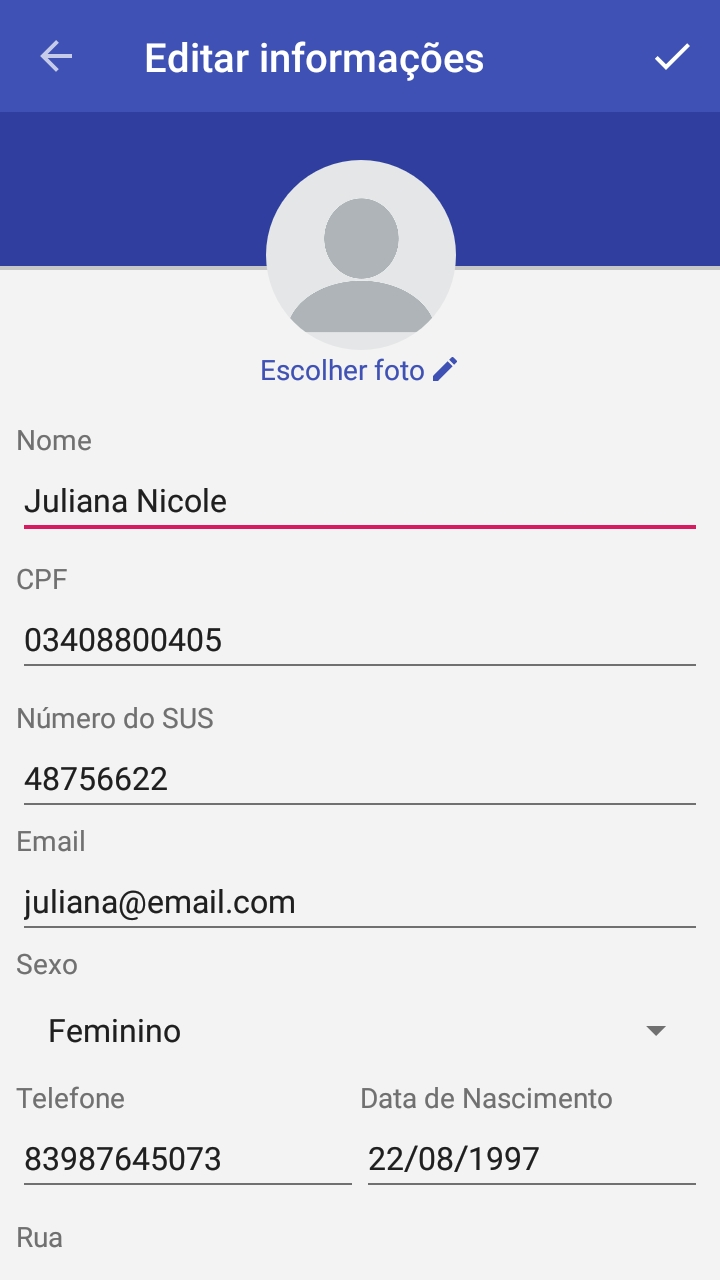
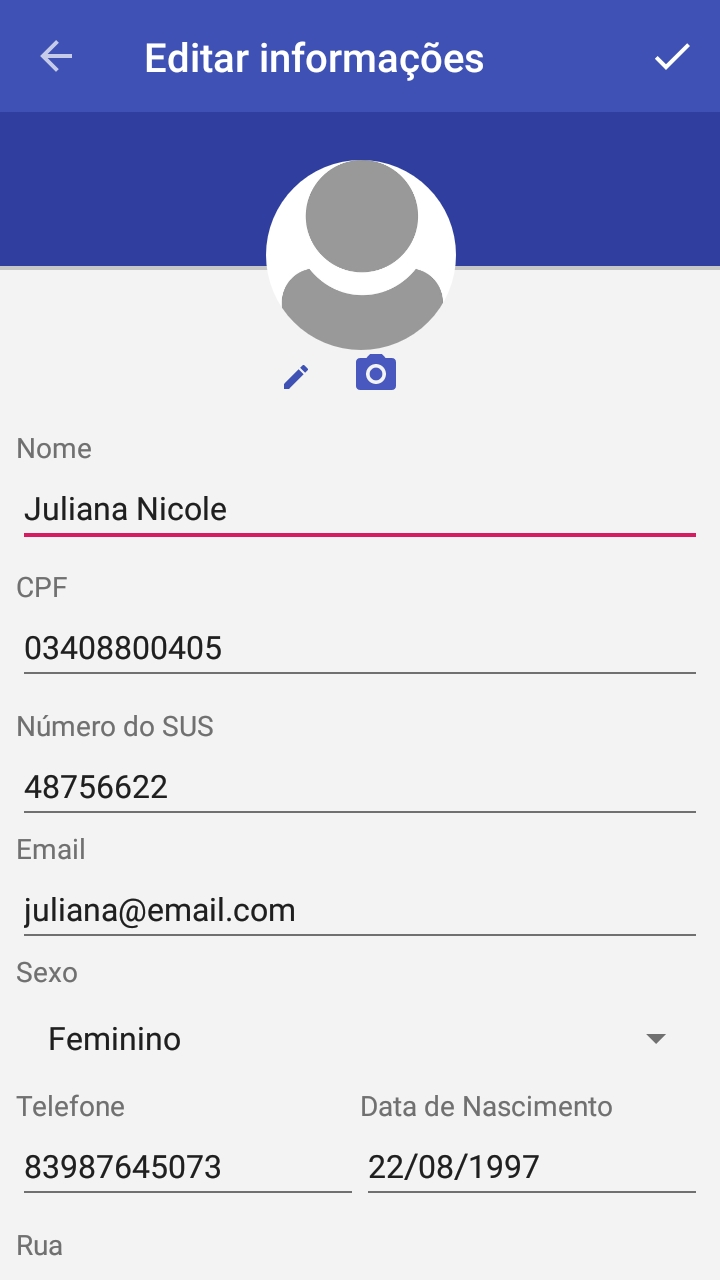
recurso de camera

diff --git a/app/src/main/java/com/ifpb/suaconsulta/activity/EditarInformacoesActivity.java b/app/src/main/java/com/ifpb/suaconsulta/activity/EditarInformacoesActivity.java
@@ -1,13 +1,17 @@
 package com.ifpb.suaconsulta.activity;
 
+import android.Manifest;
+import android.content.DialogInterface;
 import android.content.Intent;
 import android.content.SharedPreferences;
+import android.content.pm.PackageManager;
 import android.graphics.Bitmap;
 import android.net.Uri;
 import android.os.Bundle;
 import android.provider.MediaStore;
 import android.support.annotation.NonNull;
 import android.support.annotation.Nullable;
+import android.support.v7.app.AlertDialog;
 import android.support.v7.app.AppCompatActivity;
 import android.support.v7.widget.Toolbar;
 import android.util.Log;
@@ -39,6 +43,7 @@ import com.ifpb.suaconsulta.database.ConfiguracaoFirebase;
 import com.ifpb.suaconsulta.database.UsuarioFirebase;
 import com.ifpb.suaconsulta.helper.PreferenciasDoUsuario;
 import com.ifpb.suaconsulta.model.Usuario;
+import com.ifpb.suaconsulta.helper.Permissao;
 
 import java.io.ByteArrayOutputStream;
 
@@ -46,13 +51,19 @@ import de.hdodenhof.circleimageview.CircleImageView;
 
 public class EditarInformacoesActivity extends AppCompatActivity {
 
+    private String[] permissoesNecessarias = new String[]{
+            Manifest.permission.READ_EXTERNAL_STORAGE,
+            Manifest.permission.CAMERA
+    };
+
     private final String ARQUIVO_PREFERENCIAS = "arquivoPreferencias";
-    FirebaseAuth auth;
+    private FirebaseAuth auth;
 
     private static final int SELECAO_GALERIA = 200;
+    private static final int SELECAO_CAMERA = 300;
     private SharedPreferences preferences;
     private EditText editNome, editCpf, editNumSus, editTelefone, editNascimento, editRua, editBairro, editEmail;
-    private TextView editarFoto;
+    private TextView editarFoto, editarFotoCamera;
     private CircleImageView imageEditarPerfil;
     private Spinner spinner;
     private ProgressBar progressBar;
@@ -71,6 +82,9 @@ public class EditarInformacoesActivity extends AppCompatActivity {
         getWindow().setFlags(WindowManager.LayoutParams.FLAG_FULLSCREEN, WindowManager.LayoutParams.FLAG_FULLSCREEN);
 
         setContentView(R.layout.activity_editar_informacoes);
+
+        //valida
+        Permissao.validarPermissoes(permissoesNecessarias, this, 1);
 
         Toolbar toolbar = findViewById(R.id.toolbarEditarInfo);
         toolbar.setTitle("Editar informações");
@@ -92,6 +106,16 @@ public class EditarInformacoesActivity extends AppCompatActivity {
                 Intent intent = new Intent(Intent.ACTION_PICK, MediaStore.Images.Media.EXTERNAL_CONTENT_URI);
                 if(intent.resolveActivity(getPackageManager()) != null){
                     startActivityForResult(intent, SELECAO_GALERIA);
+                }
+            }
+        });
+
+        editarFotoCamera.setOnClickListener(new View.OnClickListener() {
+            @Override
+            public void onClick(View v) {
+                Intent intent = new Intent(MediaStore.ACTION_IMAGE_CAPTURE);
+                if ( intent.resolveActivity(getPackageManager()) != null ){
+                    startActivityForResult(intent, SELECAO_CAMERA );
                 }
             }
         });
@@ -125,6 +149,36 @@ public class EditarInformacoesActivity extends AppCompatActivity {
     }
 
     @Override
+    public void onRequestPermissionsResult(int requestCode, @NonNull String[] permissions, @NonNull int[] grantResults) {
+        super.onRequestPermissionsResult(requestCode, permissions, grantResults);
+
+        for ( int permissaoResultado : grantResults ){
+            if ( permissaoResultado == PackageManager.PERMISSION_DENIED ){
+                alertaValidacaoPermissao();
+            }
+        }
+
+    }
+
+    private void alertaValidacaoPermissao(){
+
+        AlertDialog.Builder builder = new AlertDialog.Builder( this );
+        builder.setTitle("Permissões Negadas");
+        builder.setMessage("Para utilizar o app é necessário aceitar as permissões");
+        builder.setCancelable(false);
+        builder.setPositiveButton("Confirmar", new DialogInterface.OnClickListener() {
+            @Override
+            public void onClick(DialogInterface dialog, int which) {
+                finish();
+            }
+        });
+
+        AlertDialog dialog = builder.create();
+        dialog.show();
+
+    }
+
+    @Override
     protected void onActivityResult(int requestCode, int resultCode, @Nullable Intent data) {
         super.onActivityResult(requestCode, resultCode, data);
 
@@ -136,6 +190,9 @@ public class EditarInformacoesActivity extends AppCompatActivity {
                     case SELECAO_GALERIA:
                         Uri localImagemSelecionada = data.getData();
                         imagem = MediaStore.Images.Media.getBitmap(getContentResolver(), localImagemSelecionada);
+                        break;
+                    case SELECAO_CAMERA:
+                        imagem = (Bitmap) data.getExtras().get("data");
                         break;
                 }
 
@@ -194,6 +251,7 @@ public class EditarInformacoesActivity extends AppCompatActivity {
         spinner = findViewById(R.id.spinnerEditar);
         progressBar.setVisibility(View.GONE);
         editarFoto = findViewById(R.id.textEditarFoto);
+        editarFotoCamera = findViewById(R.id.textEditarCamera);
         imageEditarPerfil = findViewById(R.id.imageEditarPerfil);
     }
 

diff --git a/app/src/main/java/com/ifpb/suaconsulta/helper/Permissao.java b/app/src/main/java/com/ifpb/suaconsulta/helper/Permissao.java
@@ -1,0 +1,43 @@
+package com.ifpb.suaconsulta.helper;
+
+import android.app.Activity;
+import android.content.pm.PackageManager;
+import android.os.Build;
+import android.support.v4.app.ActivityCompat;
+import android.support.v4.content.ContextCompat;
+
+import java.util.ArrayList;
+import java.util.List;
+
+public class Permissao {
+
+    public static boolean validarPermissoes(String[] permissoes, Activity activity, int requestCode){
+
+        if (Build.VERSION.SDK_INT >= 23 ){
+
+            List<String> listaPermissoes = new ArrayList<>();
+
+            /*Percorre as permissões passadas,
+            verificando uma a uma
+            * se já tem a permissao liberada */
+            for ( String permissao : permissoes ){
+                Boolean temPermissao = ContextCompat.checkSelfPermission(activity, permissao) == PackageManager.PERMISSION_GRANTED;
+                if ( !temPermissao ) listaPermissoes.add(permissao);
+            }
+
+            /*Caso a lista esteja vazia, não é necessário solicitar permissão*/
+            if ( listaPermissoes.isEmpty() ) return true;
+            String[] novasPermissoes = new String[ listaPermissoes.size() ];
+            listaPermissoes.toArray( novasPermissoes );
+
+            //Solicita permissão
+            ActivityCompat.requestPermissions(activity, novasPermissoes, requestCode );
+
+
+        }
+
+        return true;
+
+    }
+
+}
